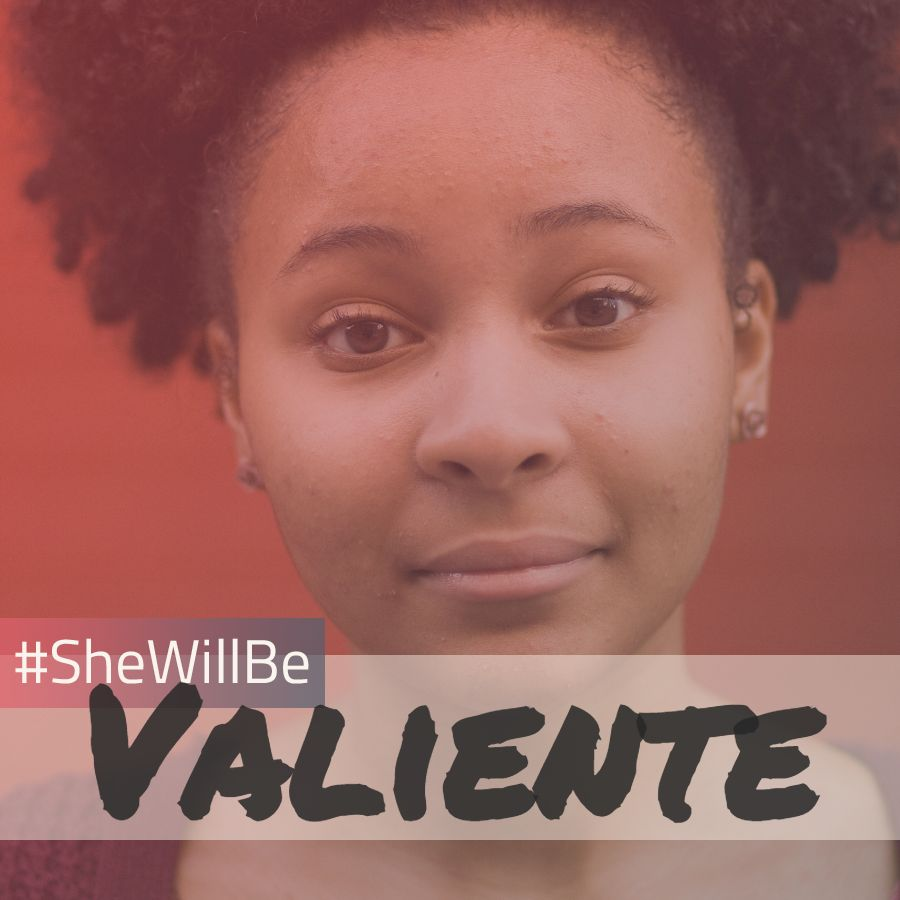
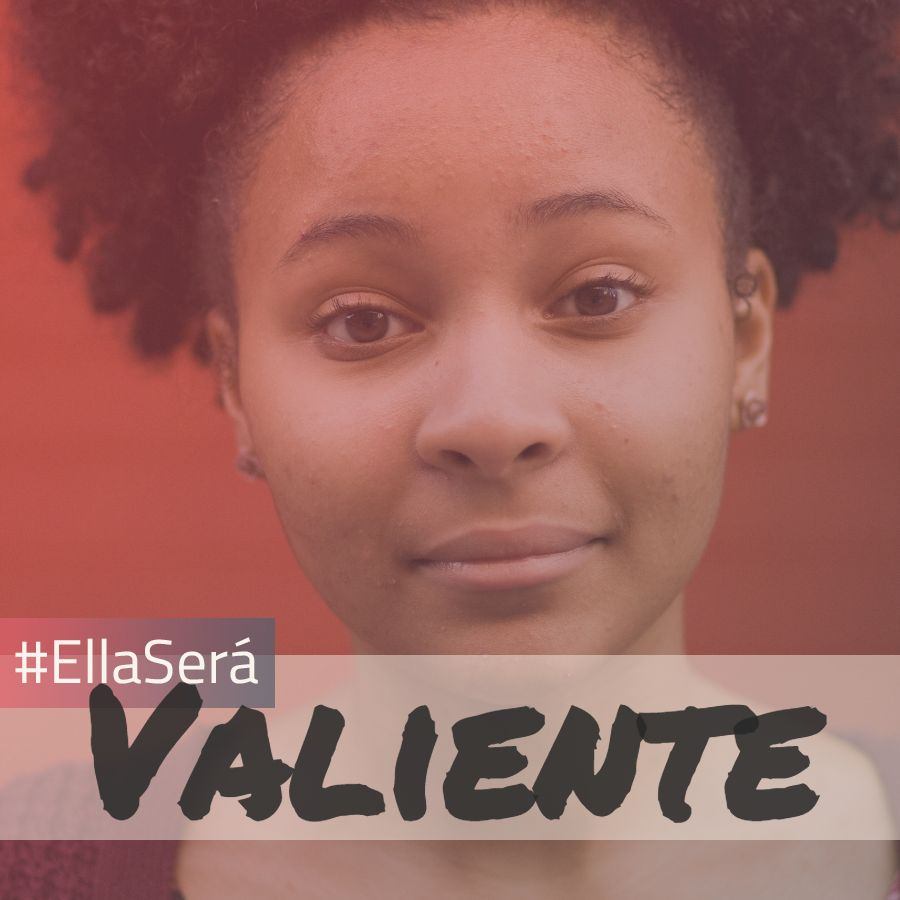
update selfies

diff --git a/ellasera/index.html b/ellasera/index.html
@@ -83,12 +83,12 @@
           <p class="text-xlarge">El Concejo Municipal de Nueva York quiere saber qué tipo de servicios o apoyo tu necesitas para ser éxitosa.</p>
           <p class="text-xlarge">Utiliza #EllaSerá para decirnos cómo podemos ayudarte alcanzar tus metas!</p>
           <ul class="small-block-grid-3 some-margin-bottom">
-            <li><img src="../images/selfie-6.jpg" class="selfie shadowed"></li>
-            <li><img src="images/selfie-impactante.jpg" class="selfie shadowed"></li>
+            <li><img src="images/selfie-valiente.jpg" class="selfie shadowed"></li>
             <li><img src="images/selfie-influyente.jpg" class="selfie shadowed"></li>
             <li><img src="images/selfie-lavida.jpg" class="selfie shadowed"></li>
+            <li><img src="images/selfie-impactante.jpg" class="selfie shadowed"></li>
+            <li><img src="images/selfie-optimista.jpg" class="selfie shadowed"></li>
             <li><img src="images/selfie-reconocida.jpg" class="selfie shadowed"></li>
-            <li><img src="images/selfie-valiente.jpg" class="selfie shadowed"></li>
           </ul>
         </div>
         <div class="columns medium-9 medium-centered large-5 large-uncentered">

diff --git a/index.html b/index.html
@@ -83,11 +83,11 @@
           <p class="text-xlarge">The New York City Council wants to know what kind of services or support you need to be successful. </p>
           <p class="text-xlarge">Use #SheWillBe to tell us how we can help you be who you want to be!</p>
           <ul class="small-block-grid-3 some-margin-bottom">
-            <li><img src="images/selfie-6.jpg" class="selfie shadowed"></li>
-            <li><img src="images/selfie-alive.jpg" class="selfie shadowed"></li>
-            <li><img src="images/selfie-impactful.jpg" class="selfie shadowed"></li>
             <li><img src="images/selfie-fearless.jpg" class="selfie shadowed"></li>
             <li><img src="images/selfie-influential.jpg" class="selfie shadowed"></li>
+            <li><img src="images/selfie-alive.jpg" class="selfie shadowed"></li>
+            <li><img src="images/selfie-impactful.jpg" class="selfie shadowed"></li>
+            <li><img src="images/selfie-optimistic.jpg" class="selfie shadowed"></li>
             <li><img src="images/selfie-recognized.jpg" class="selfie shadowed"></li>
           </ul>
         </div>
